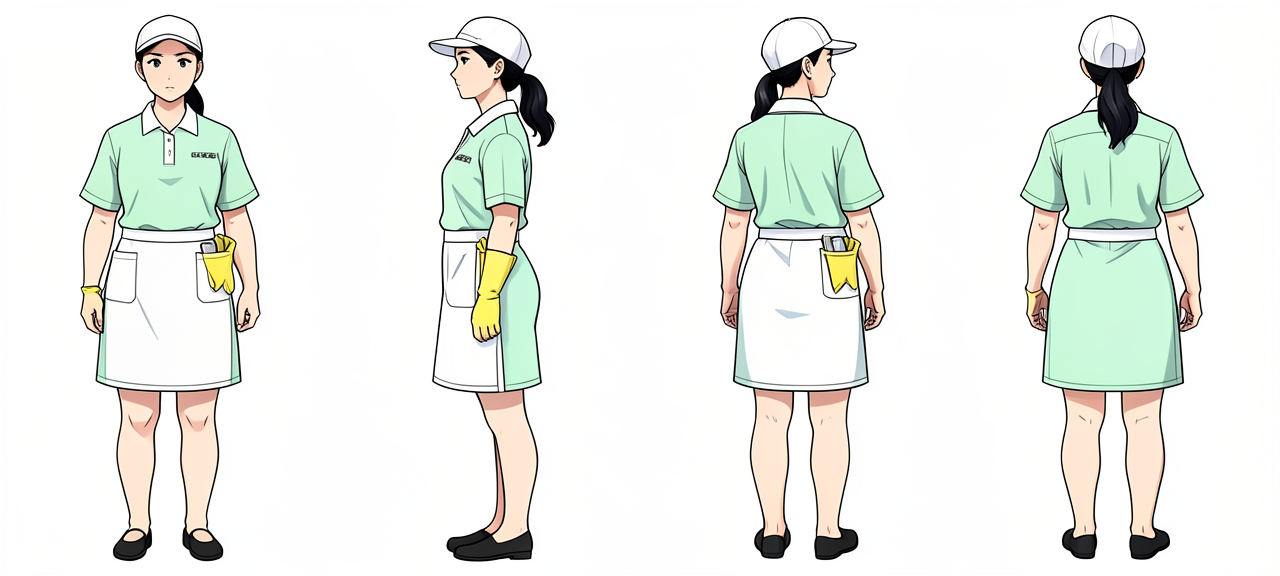
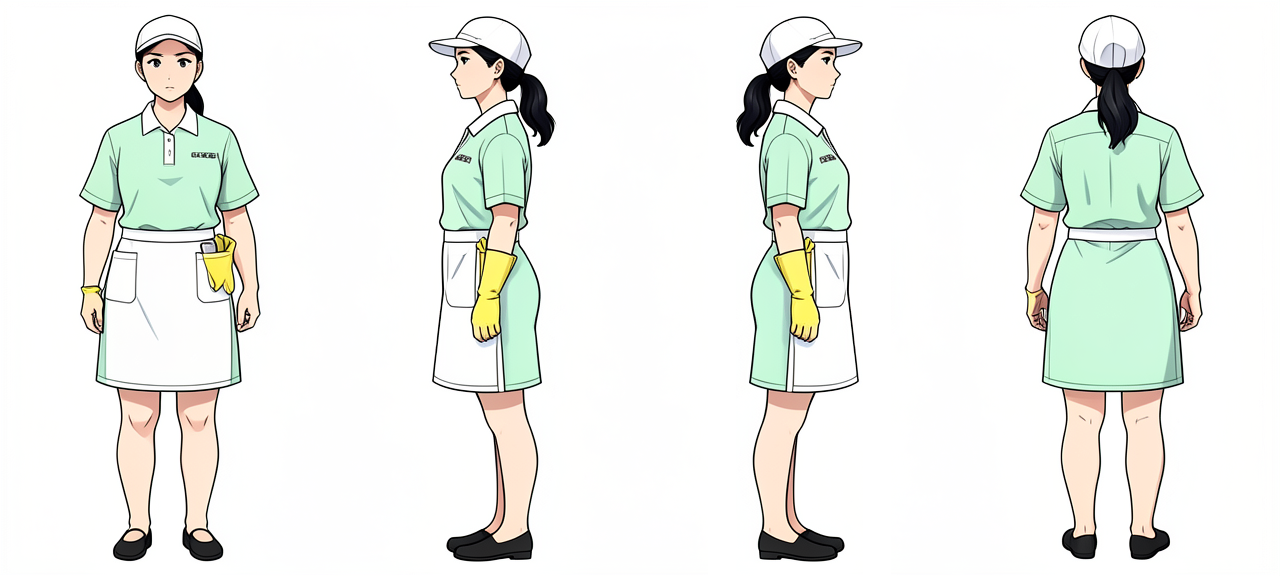
청소부사장: 시트 4장 확정(회장 다시 그림)·컷 33개 계획·나레이션 검사 통과
Claude-Session: https://claude.ai/code/session_01HCMiuwFrW6tNCEfDcjQDR7

Changed region(s): [[0.5312, 0.0312, 0.7188, 1.0]]

diff --git a/연재/청소부사장/청소부사장_단편.py b/연재/청소부사장/청소부사장_단편.py
@@ -1,0 +1,134 @@
+"""「청소부 출신 사장님」 자수성가 단편 (일본 애니풍) — 컷별 그림 계획 (만드는 법은 「붕어빵 엄마의 빌딩」과 같음)
+python 연재/청소부사장/청소부사장_단편.py job <저장폴더> [컷번호 ...]  → klein_worker 그림 주문서 job.json
+python 연재/청소부사장/청소부사장_단편.py project <그림폴더>         → 프로젝트 파일에 [사진] 줄을 넣음
+  - 인물 기준 그림은 앞모습 조각(캐릭터시트/_앞_<인물>.png). 10년 뒤 은주는 따로 그린 시트(은주사장), 10년 뒤 지배인은 같은 시트 + 흰머리
+  - 붕어빵 편에서 배운 것: 나이 든 같은 인물은 'the same man as the reference (only one of him)', 옷은 'clean', 상처·얼룩 없이
+  - 호텔·사람 이름은 모두 지어낸 것"""
+import json
+import os
+import re
+import sys
+
+HERE = os.path.dirname(os.path.abspath(__file__))
+SHEETS = os.path.join(HERE, "캐릭터시트")
+PROJ = os.path.join(HERE, "청소부사장_프로젝트.json")
+
+STYLE = ("Japanese anime style scene, TV anime screenshot, clean crisp line art, anime cel shading with soft shadows, "
+         "realistic human proportions, natural colors, detailed anime background art, modern Korean luxury hotel drama")
+LOOK = {
+    "은주": "a 32-year-old slim Korean woman hotel cleaner with black hair in a low ponytail under a small white cap, plain kind face, light mint-green short-sleeve housekeeping uniform dress with a white collar and a white apron, black flat shoes",
+    "은주사장": "a 42-year-old slim Korean woman with black hair in a sleek low bun, calm confident eyes, light makeup, tailored navy blue pantsuit with a white blouse and a small silver brooch",
+    "지배인": "a 48-year-old tall thin Korean man with slicked-back black hair graying at the temples, a thin mustache, narrow cold eyes, black three-piece suit, burgundy tie, small gold badge with no letters",
+    "지배인10": "the same thin Korean man as the reference (only one of him), about 58, slicked-back hair now mostly gray, thin gray mustache, humble tired eyes, a plain clean dark gray suit with no tie",
+    "회장": "a 70-year-old short Korean man with neat white hair, round silver glasses, gentle smile, long-sleeved beige knit cardigan over a white shirt, gray trousers, a wooden cane",
+}
+HOTEL = "a luxury Korean hotel"
+CORR = "a long elegant hotel guest-room corridor with carpet, warm wall lamps and numbered doors with no readable numbers"
+ROOM = "a clean elegant hotel guest room with a large bed, white sheets, a window with city view, warm light"
+OFFICE = "a hotel general manager's office with a dark wooden desk, leather chair and a window"
+LOCKER = "a small plain staff locker room in a hotel basement with gray lockers and a bench"
+STAIRS = "a narrow concrete emergency staircase inside a hotel, fluorescent lights"
+LOBBY = "a grand bright hotel lobby with marble floors, a chandelier and tall windows"
+HANOK = "a small cozy traditional Korean hanok guesthouse with wooden beams, paper doors, a small courtyard and warm lamps"
+HOME = "a tiny modest Korean one-room apartment at night with a small desk and a lamp"
+NOTE = "the paper pages are covered in tiny handwriting too small and blurry to read"
+
+# (컷, 문단 번호들, 나오는 인물, (안 씀), 다른 사람 나와도 됨, 장소, 장면(영어), 화면 설명)
+CUTS = [
+    ("c01", [1], ["은주"], False, False, "a hotel basement laundry room at dawn with big washing machines and stacks of white towels", "the woman cleaner carrying a big stack of white towels in the early morning, tired but steady", "새벽 다섯 시 반 세탁실"),
+    ("c02", [2], ["은주"], False, False, ROOM, "the woman cleaner smoothing a fresh white sheet on a large hotel bed, focused and careful", "하루 열여섯 개의 방"),
+    ("c03", [3, 4], ["은주"], False, False, ROOM, "the woman cleaner picking up a small handwritten note card left on a nightstand and reading it, the writing blurry and unreadable", "손님이 남긴 쪽지"),
+    ("c04", [5], ["은주"], False, False, HOME, "the woman at a small desk at night copying notes from many small paper cards into a thick notebook, desk lamp, " + NOTE, "공책에 옮겨 적은 쪽지"),
+    ("c05", [6], ["지배인"], False, True, LOBBY, "the tall thin man in a black three-piece suit smiling politely and bowing to rich guests at the front desk", "손님 앞에서만 웃는 총지배인"),
+    ("c06", [7, 8], ["지배인", "은주"], False, False, CORR, "the man in a black suit pushing a cleaning cart away with his foot and pointing at the stairs coldly; the woman cleaner stands stiffly with her head down", "엘리베이터는 손님용이야"),
+    ("c07", [9], ["은주"], False, False, STAIRS, "the woman cleaner carrying a heavy cleaning cart up the concrete stairs with both arms, sweating, struggling", "십이 층까지 계단으로"),
+    ("c08", [10, 11], ["은주", "지배인"], False, False, OFFICE, "the woman cleaner standing in front of the desk holding out a thick notebook with both hands, hopeful; the man in a black suit sits behind the desk", "공책을 내민 은주 씨"),
+    ("c09", [12, 13], ["지배인"], False, False, OFFICE, "the man in a black suit pushing the notebook off to the side of his desk without opening it, sneering", "펼쳐 보지도 않고 밀어 버린 공책"),
+    ("c10", [14], ["은주"], False, False, LOCKER + ", evening", "the woman cleaner sitting alone on a bench in the locker room crying quietly, holding her notebook against her chest", "탈의실에서 혼자 운 저녁"),
+    ("c11", [15, 16], ["회장"], False, False, CORR, "the elderly man in a beige cardigan walking slowly down the corridor with his wooden cane, gentle smile", "칠 층 끝 방의 단골 노인"),
+    ("c12", [17, 18], ["회장", "은주"], False, False, ROOM, "the elderly man sitting in an armchair by the window speaking kindly to the woman cleaner who stands holding a cleaning cloth", "그 공책은 뭔가"),
+    ("c13", [19, 20, 21], ["회장"], False, False, ROOM, "the elderly man with reading glasses slowly turning pages of a thick handwritten notebook in an armchair by the window, impressed, " + NOTE, "오 년 동안 모은 공책"),
+    ("c14", [22], ["회장", "은주"], False, False, ROOM, "the elderly man closing the notebook and looking warmly at the woman cleaner, nodding silently", "고개를 끄덕인 노인"),
+    ("c15", [23], [], False, True, LOBBY + ", in winter, half empty", "an almost empty gloomy hotel lobby in winter with few guests and a worried front desk clerk. No main characters", "빈방이 늘어난 호텔"),
+    ("c16", [24, 25], ["지배인"], False, True, "a hotel staff meeting room", "the man in a black suit shouting angrily at a group of staff in uniforms, pointing his finger", "청소부 다섯 명 내보낸다"),
+    ("c17", [26], ["은주"], False, False, ROOM, "the woman cleaner gently placing a small folded note card on the pillow of the made bed, sad farewell face", "그동안 고마웠습니다"),
+    ("c18", [27], ["은주"], False, False, HANOK, "the woman in a plain apron sweeping the small courtyard of the old hanok guesthouse, a fresh start, morning light", "작은 한옥 게스트하우스"),
+    ("c19", [28], ["은주"], False, False, HANOK, "the woman placing a small handwritten welcome card and two different pillows on a neat guest bed in a hanok room, smiling", "공책대로 하나씩"),
+    ("c20", [29], ["은주"], False, True, HANOK, "happy guests with suitcases thanking the woman at the guesthouse gate, the courtyard full of people", "동네 일 등 게스트하우스"),
+    ("c21", [30, 31], ["회장", "은주"], False, False, HANOK, "the elderly man with a wooden cane standing at the hanok guesthouse gate smiling; the woman looks surprised and moved", "찾아온 서 노인"),
+    ("c22", [32], ["회장"], False, False, HANOK, "close-up of the elderly man holding out a business card with both hands, the card text blurry and unreadable, a dignified smile", "하늘 그룹 회장"),
+    ("c23", [33, 34], ["은주"], False, False, HANOK, "the woman holding a business card in both hands and slowly nodding with determined shining eyes", "이번에는 경영자로"),
+    ("c24", [35, 36], ["은주사장"], False, True, LOBBY, "the woman in a navy pantsuit standing on a small stage in the grand lobby giving a speech, staff applauding", "새 대표 취임식"),
+    ("c25", [37], [], False, True, ROOM, "a guest room with two kinds of pillows, a window draft seal and a small welcome card on the bed, a happy guest family. No main characters", "쪽지 하나하나가 바꾼 호텔"),
+    ("c26", [38, 39], ["은주사장"], False, False, "a hotel interview room with a table and two chairs", "the woman in a navy pantsuit sitting at the interview table looking at a resume paper with unreadable text, calm", "객실 관리 팀장 면접"),
+    ("c27", [40, 41], ["지배인10"], False, False, "a hotel interview room with a table and two chairs", "the thin gray-haired man in a plain gray suit sitting at the interview table, looking up and freezing in shock", "얼어붙은 마 씨"),
+    ("c28", [42, 43], ["은주사장"], False, False, "a hotel interview room with a table", "the woman in a navy pantsuit placing an old worn thick notebook on the table, calm firm face", "그 공책, 기억하세요?"),
+    ("c29", [44, 45], ["지배인10"], False, False, "a hotel interview room with a table", "close-up of the thin gray-haired man with cold sweat on his forehead, unable to speak, staring at the old notebook", "식은땀"),
+    ("c30", [46, 47], ["은주사장"], False, False, "a hotel interview room with a table", "the woman in a navy pantsuit pushing the notebook across the table and speaking firmly with a gentle dignity", "청소하는 사람도 엘리베이터를 탑니다"),
+    ("c31", [48, 49], ["지배인10"], False, False, "a hotel interview room with a table", "the thin gray-haired man bowing his head deeply over the table in humble acceptance", "처음부터 다시 배우겠습니다"),
+    ("c32", [50, 51], ["은주사장"], False, False, ROOM + ", evening", "the woman in a navy pantsuit picking up a small note card left on the bed of the room, smiling warmly, the note text unreadable", "오늘도 방이 참 깨끗했습니다"),
+    ("c33", [52], [], False, False, "on a desk under a warm lamp", "close-up of a new notebook's first page with a small old note card taped on it and one line of handwriting below, " + NOTE + ". No people", "청소하는 손이 호텔을 만든다"),
+]
+
+
+def paragraphs(story):
+    return [p.strip() for p in re.split(r"\n\s*\n", story) if p.strip() and not p.strip().startswith("[사진")]
+
+
+def ref_of(nm):
+    return os.path.join(SHEETS, "_앞_" + nm.replace("10", "") + ".png")
+
+
+def prompt(cut):
+    cid, _, who, _, crowd, place, desc, _ = cut
+    people = list(who)
+    looks = [f"character from reference image {k + 1}: {LOOK[nm]}" for k, nm in enumerate(who)]
+    p = f"{STYLE}. "
+    if looks:
+        p += "In the scene: " + "; ".join(looks) + ". "
+    if people:
+        p += "Each character appears only once, exactly two arms and two legs and five fingers on each hand, head and face turned the same direction as the body. "
+    if not people:
+        p += "No main characters. "
+    if not crowd:
+        p += "No other people besides those described in the scene. "
+        if len(people) == 1:
+            p += "Exactly one person in the whole image, no twin, no copy, no reflection. "
+    else:
+        p += "Other people are ordinary hotel guests and staff in everyday clothes who look clearly different from the main characters. "
+    p += f"Scene: {desc}. Setting: {place}. "
+    p += "Cinematic composition, full-bleed image, no border, no frame, no paper edges. No speech bubbles, no readable text, no letters, no logos, no signs with writing."
+    return p
+
+
+def main():
+    cmd, folder = sys.argv[1], sys.argv[2]
+    if cmd == "job":
+        only = set(sys.argv[3:])
+        items = [{"id": c[0], "width": 1024, "height": 576, "seed": 1100 + k, "prompt": prompt(c), "refs": [ref_of(nm) for nm in c[2]]}
+                 for k, c in enumerate(CUTS) if not only or c[0] in only]
+        os.makedirs(folder, exist_ok=True)
+        out = os.path.join(folder, "job.json")
+        json.dump({"items": items, "crop_border": True}, open(out, "w", encoding="utf-8"), ensure_ascii=False, indent=1)
+        print(out, len(items), "cuts")
+    elif cmd == "project":
+        p = json.load(open(PROJ, encoding="utf-8"))
+        paras = paragraphs(p["story"])
+        first = {c[1][0]: c for c in CUTS}
+        assert sorted(n for c in CUTS for n in c[1]) == list(range(1, len(paras) + 1)), "문단 번호가 대본과 안 맞음"
+        out = []
+        for i, para in enumerate(paras, 1):
+            if i in first:
+                c = first[i]
+                out.append(f"[사진: {os.path.join(folder, c[0] + '.png')} | {c[7]} | AI 생성 그림 (FLUX.2 klein) | ]")
+            out.append(para)
+        p["story"] = "\n\n".join(out)
+        p["img_source"] = "그림: 애니 일러스트"
+        p["autophoto"] = False
+        p["cast"] = [{"name": nm, "look": LOOK[nm], "sheet": os.path.join(SHEETS, nm + ".png")} for nm in LOOK]
+        json.dump(p, open(PROJ, "w", encoding="utf-8"), ensure_ascii=False, indent=1)
+        print(PROJ, len(CUTS), "cuts")
+
+
+if __name__ == "__main__":
+    main()
